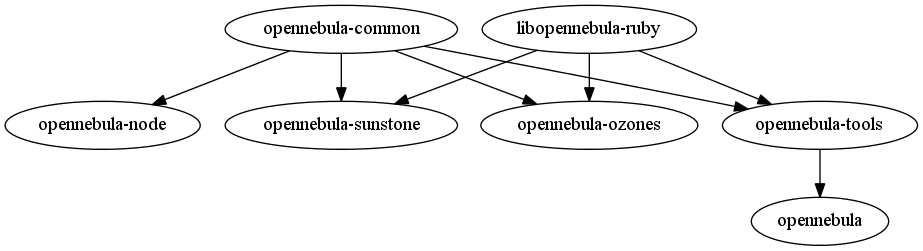
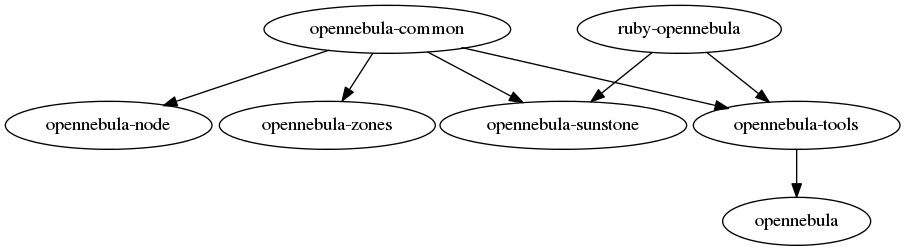
Change Debian package dependency graph
Also add its source dot file and change doc to take out ozones package

diff --git a/source/design_and_installation/building_your_cloud/ignc.rst b/source/design_and_installation/building_your_cloud/ignc.rst
@@ -49,7 +49,6 @@ These are the packages available for this distribution:
 -  **opennebula**: Command Line Interface
 -  **opennebula-server**: Main OpenNebula daemon, scheduler, etc
 -  **opennebula-sunstone**: OpenNebula Sunstone, EC2, OCCI
--  **opennebula-ozones**: OpenNebula OZones
 -  **opennebula-ruby**: Ruby Bindings
 -  **opennebula-java**: Java Bindings
 -  **opennebula-gate**: Gate server that enables communication between VMs and OpenNebula
@@ -97,13 +96,12 @@ After installation you need to manually create ``/var/lib/one/.one/one_auth`` wi
 
 -  **opennebula**: main OpenNebula binaries
 -  **opennebula-devel**: Examples, manpages and install\_gems (depends on **opennebula**)
--  **opennebula-zones**: OpenNebula OZones (depends on **opennebula**)
 -  **opennebula-sunstone**: OpenNebula Sunstone (depends on **opennebula**)
 
 1.3. Installing on Debian/Ubuntu
 --------------------------------
 
-The JSON ruby library packaged with Debian 6 is not compatible with ozones. To make it work a new gem should be installed and the old one disabled. You can do so executing these commands:
+The JSON ruby library packaged with Debian 6 is not compatible with OpenNebula. To make it work a new gem should be installed and the old one disabled. You can do so executing these commands:
 
 .. code::
 
